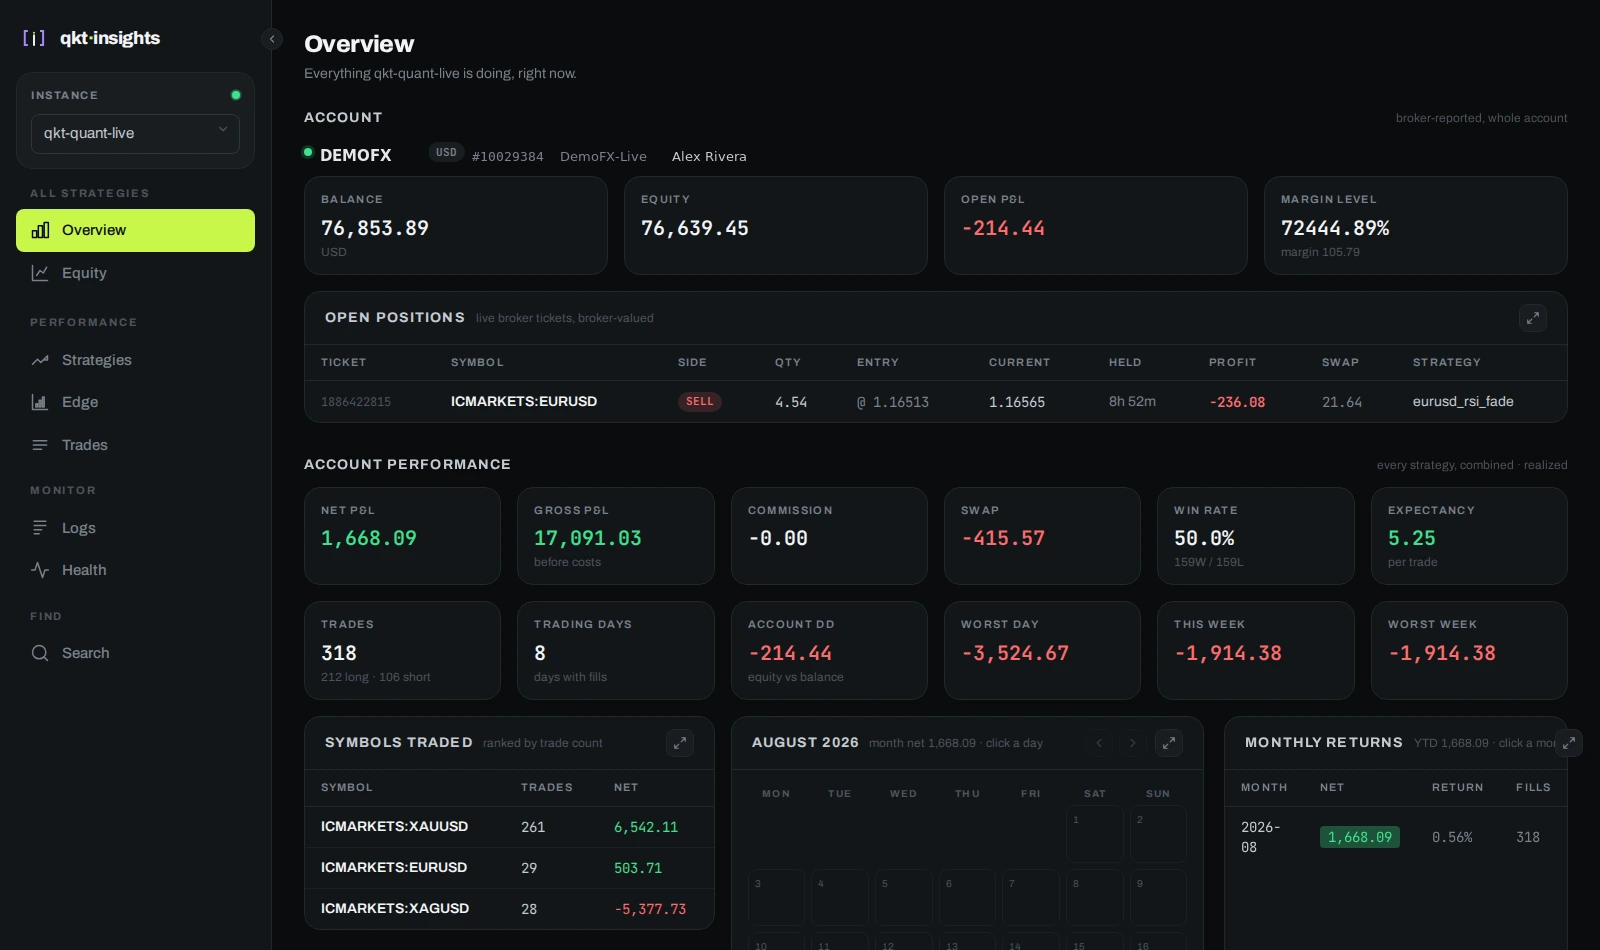
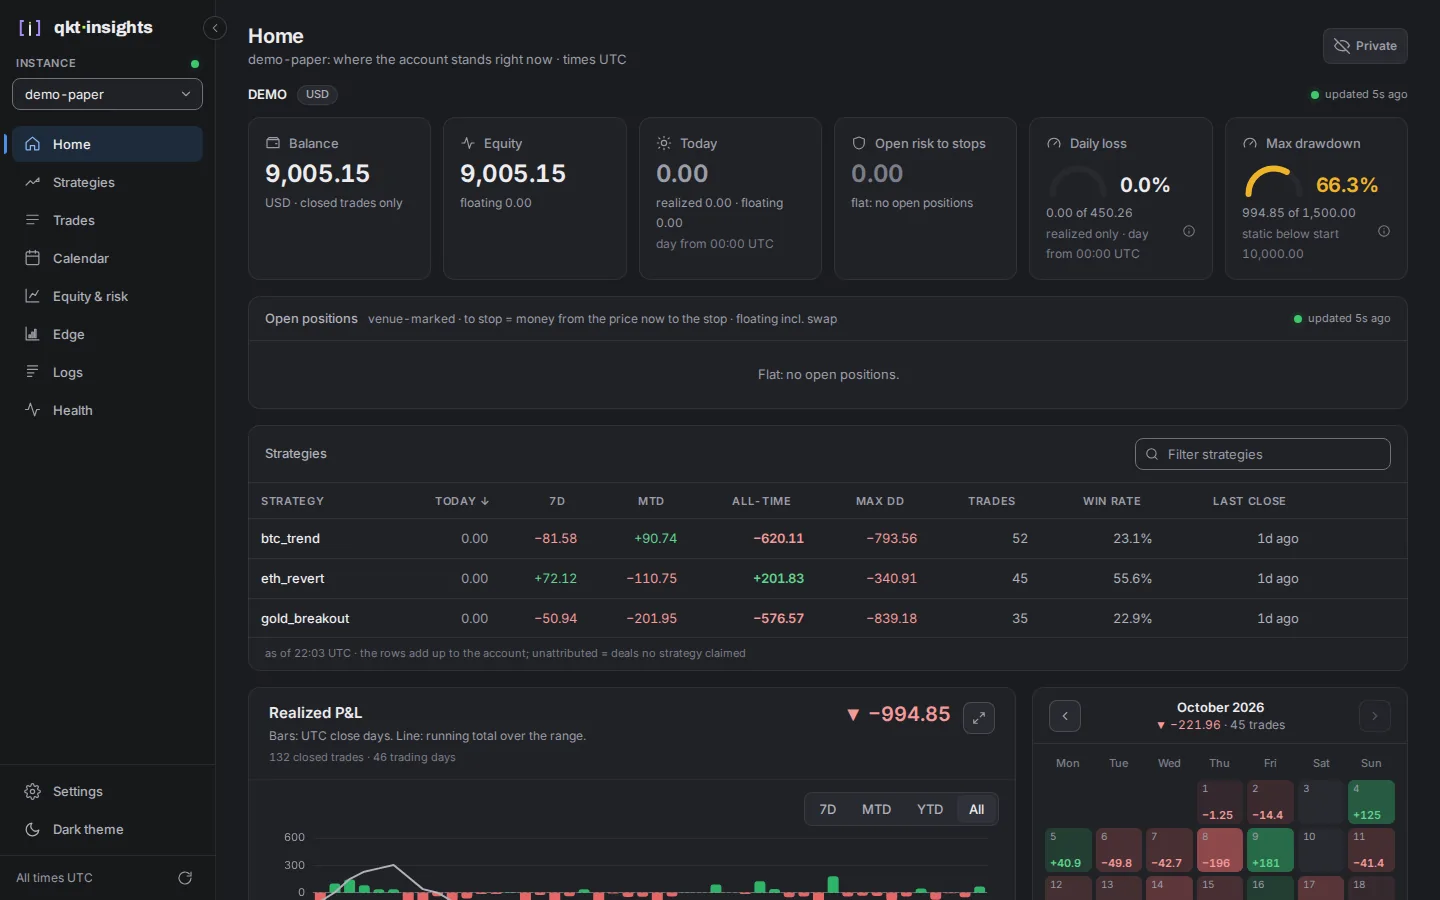
docs(readme): use the current dashboard screenshot

diff --git a/README.md b/README.md
@@ -43,10 +43,10 @@ It trades CFDs, futures, perpetuals and options. Backtest and live differences a
 [parity register](docs/parity/backtest-vs-live.md).
 
 <p align="center">
-  <img alt="qkt-insights: balance, open positions, performance, calendar and symbols traded for a running instance" src="docs/assets/qkt-insights-dashboard.webp" width="840">
+  <img alt="qkt-insights Home: balance, equity, today, open risk, drawdown, open positions, strategies and realized P&L for a demo account" src="docs/assets/qkt-insights-dashboard.webp" width="840">
 </p>
 
-<p align="center"><sub>qkt-insights, the dashboard that reads qkt's event stream. Account details in this screenshot are placeholders.<br/><a href="https://github.com/elitekaycy/qkt-insights/blob/dev/docs/PAGES.md">Every page</a></sub></p>
+<p align="center"><sub>qkt-insights, the dashboard that reads qkt's event stream. Demo account: three strategies replayed from qkt backtests, no real money.<br/><a href="https://github.com/elitekaycy/qkt-insights">About qkt-insights</a></sub></p>
 
 <br/>
 
